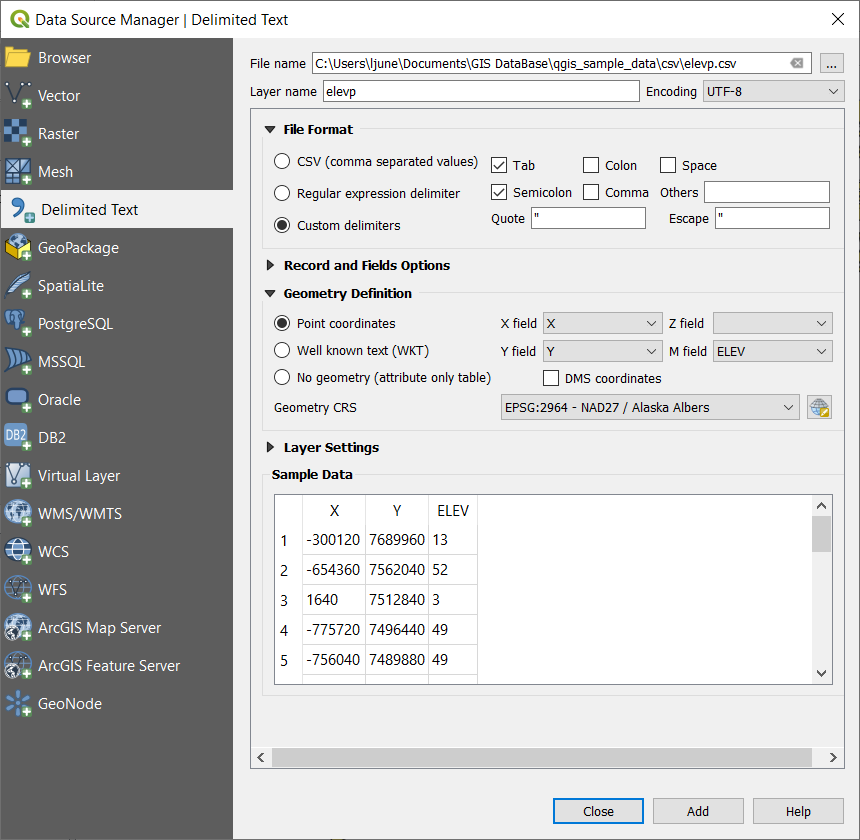
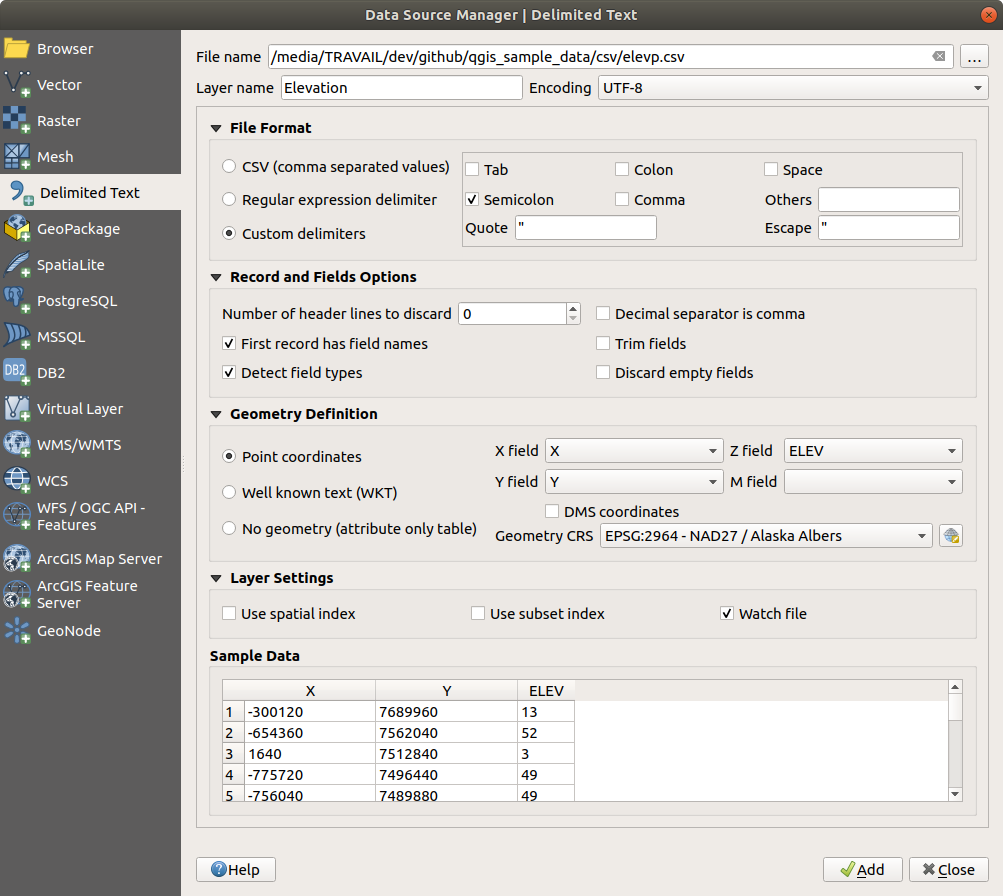
Group "Add delimited text layer" instructions
organized in steps and update the screenshot

diff --git a/source/docs/user_manual/managing_data_source/opening_data.rst b/source/docs/user_manual/managing_data_source/opening_data.rst
@@ -426,7 +426,6 @@ A mesh is an unstructured grid usually with temporal and other components.
 The spatial component contains a collection of vertices, edges and faces
 in 2D or 3D space. More information on mesh layers at :ref:`label_meshdata`.
 
-
 To add a mesh layer to QGIS:
 
 #. Open the :menuselection:`Data Source Manager` dialog, either by selecting it
@@ -461,9 +460,14 @@ that you could want to visualize.
 This is what |addDelimitedTextLayer|:guilabel:`Add Delimited Text Layer`
 is designed for.
 
-Click the |dataSourceManager| :sup:`Open Data Source Manager` icon to open the
-:guilabel:`Data Source Manager` and enable the |addDelimitedTextLayer|
-:guilabel:`Delimited Text` tab, as shown in figure_delimited_text_.
+#. Click the |dataSourceManager| :sup:`Open Data Source Manager` icon to
+   open the :guilabel:`Data Source Manager` dialog
+#. Enable the |addDelimitedTextLayer| :guilabel:`Delimited Text` tab
+#. Select the delimited text file to import (e.g., :file:`qgis_sample_data/csv/elevp.csv`)
+   by clicking on the :guilabel:`...` :sup:`Browse` button.
+#. In the :guilabel:`Layer name` field, provide the name to use for
+   the layer in the project (e.g. :file:`Elevation`).
+#. Configure the settings to meet your dataset and needs, as explained below.
 
 .. _figure_delimited_text:
 
@@ -471,11 +475,6 @@ Click the |dataSourceManager| :sup:`Open Data Source Manager` icon to open the
    :align: center
 
    Delimited Text Dialog
-
-First, select the file to import (e.g., :file:`qgis_sample_data/csv/elevp.csv`)
-by clicking on the :guilabel:`...` :sup:`Browse` button.
-In the :guilabel:`Layer name` field, provide the name to use for
-the layer in the project (e.g. :file:`Elevation`).
 
 File format
 ...........
@@ -527,15 +526,16 @@ Once the file is parsed, set :guilabel:`Geometry definition` to
   point geometry type and contains such fields. If the coordinates
   are defined as degrees/minutes/seconds, activate the
   |checkbox|:guilabel:`DMS coordinates` checkbox.
+  Indicate the appropriate :guilabel:`Geometry CRS` using the |setProjection|
+  :sup:`Select CRS` widget.
 * |radioButtonOn|:guilabel:`Well known text (WKT)` option if the spatial
   information is represented as WKT: select the :guilabel:`Geometry field`
   containing the WKT geometry and choose the approriate :guilabel:`Geometry
   field` or let QGIS auto-detect it.
+  Indicate the appropriate :guilabel:`Geometry CRS` using the |setProjection|
+  :sup:`Select CRS` widget.
 * If the file contains non-spatial data, activate |radioButtonOn| :guilabel:`No
   geometry (attribute only table)` and it will be loaded as an ordinary table.
-
-Beside the features geometry information, you can also set the layer's
-:guilabel:`Geometry CRS` using the |setProjection| :sup:`Select CRS` widget.
 
 Layer settings
 ..............
